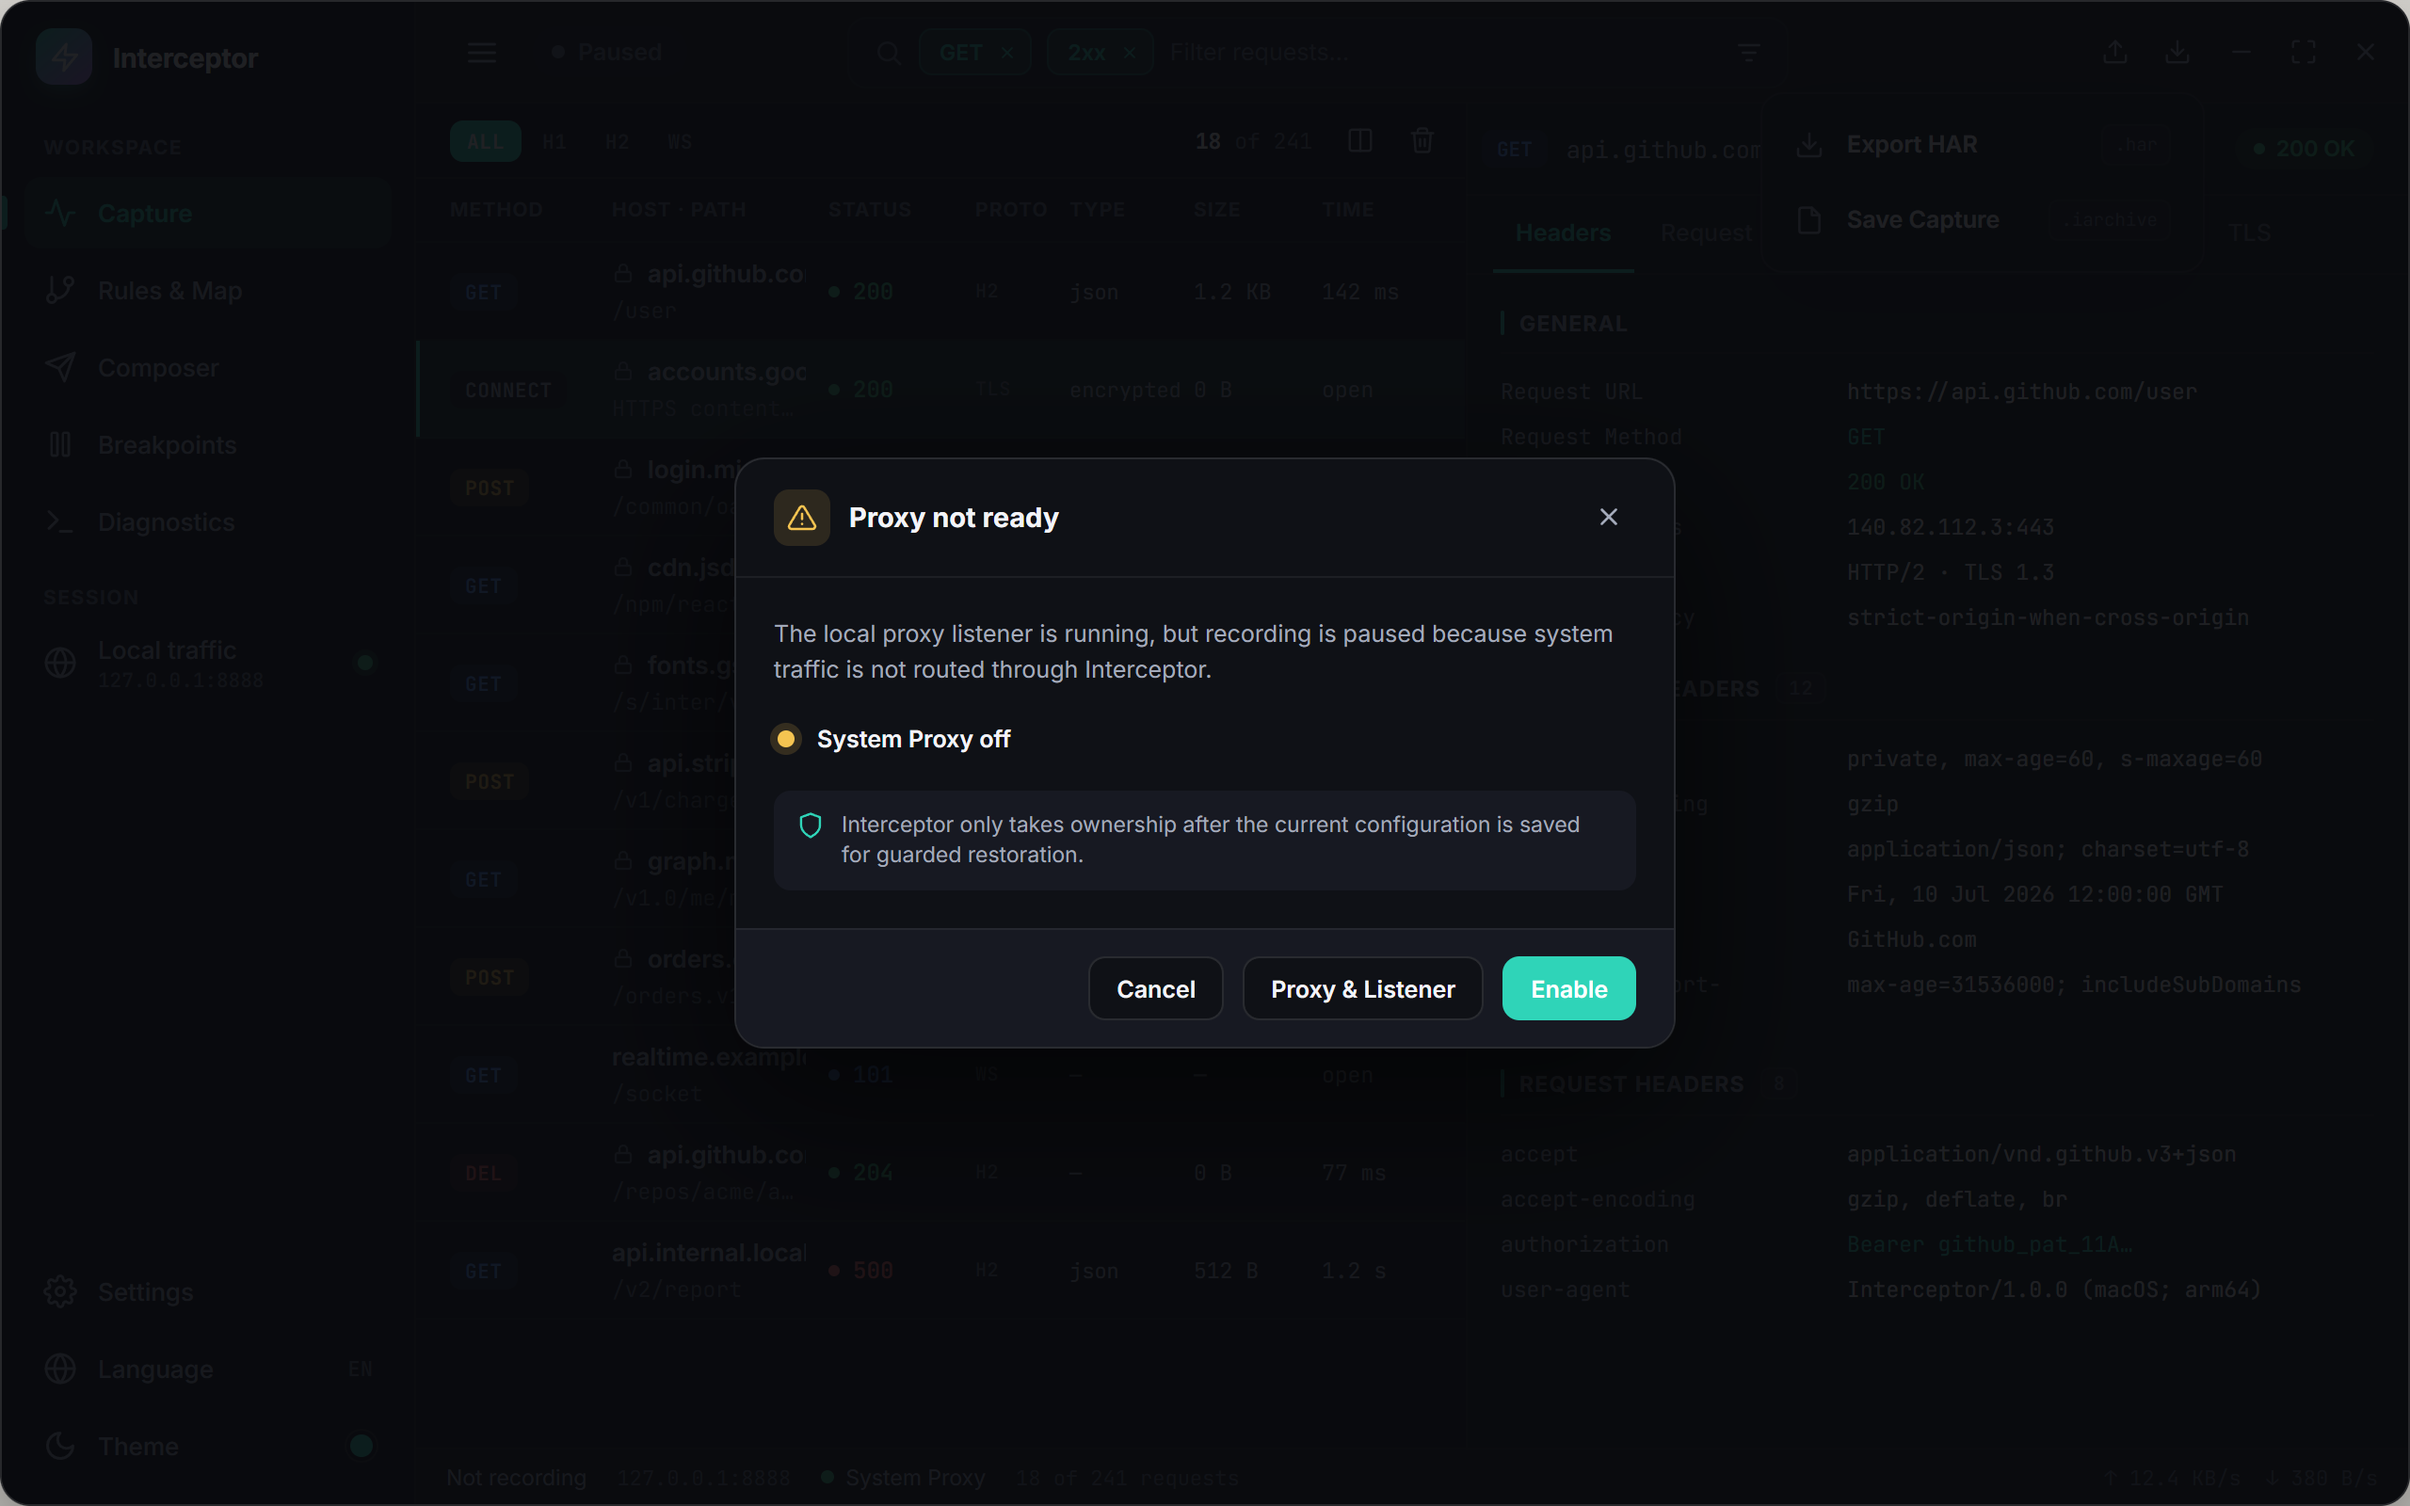
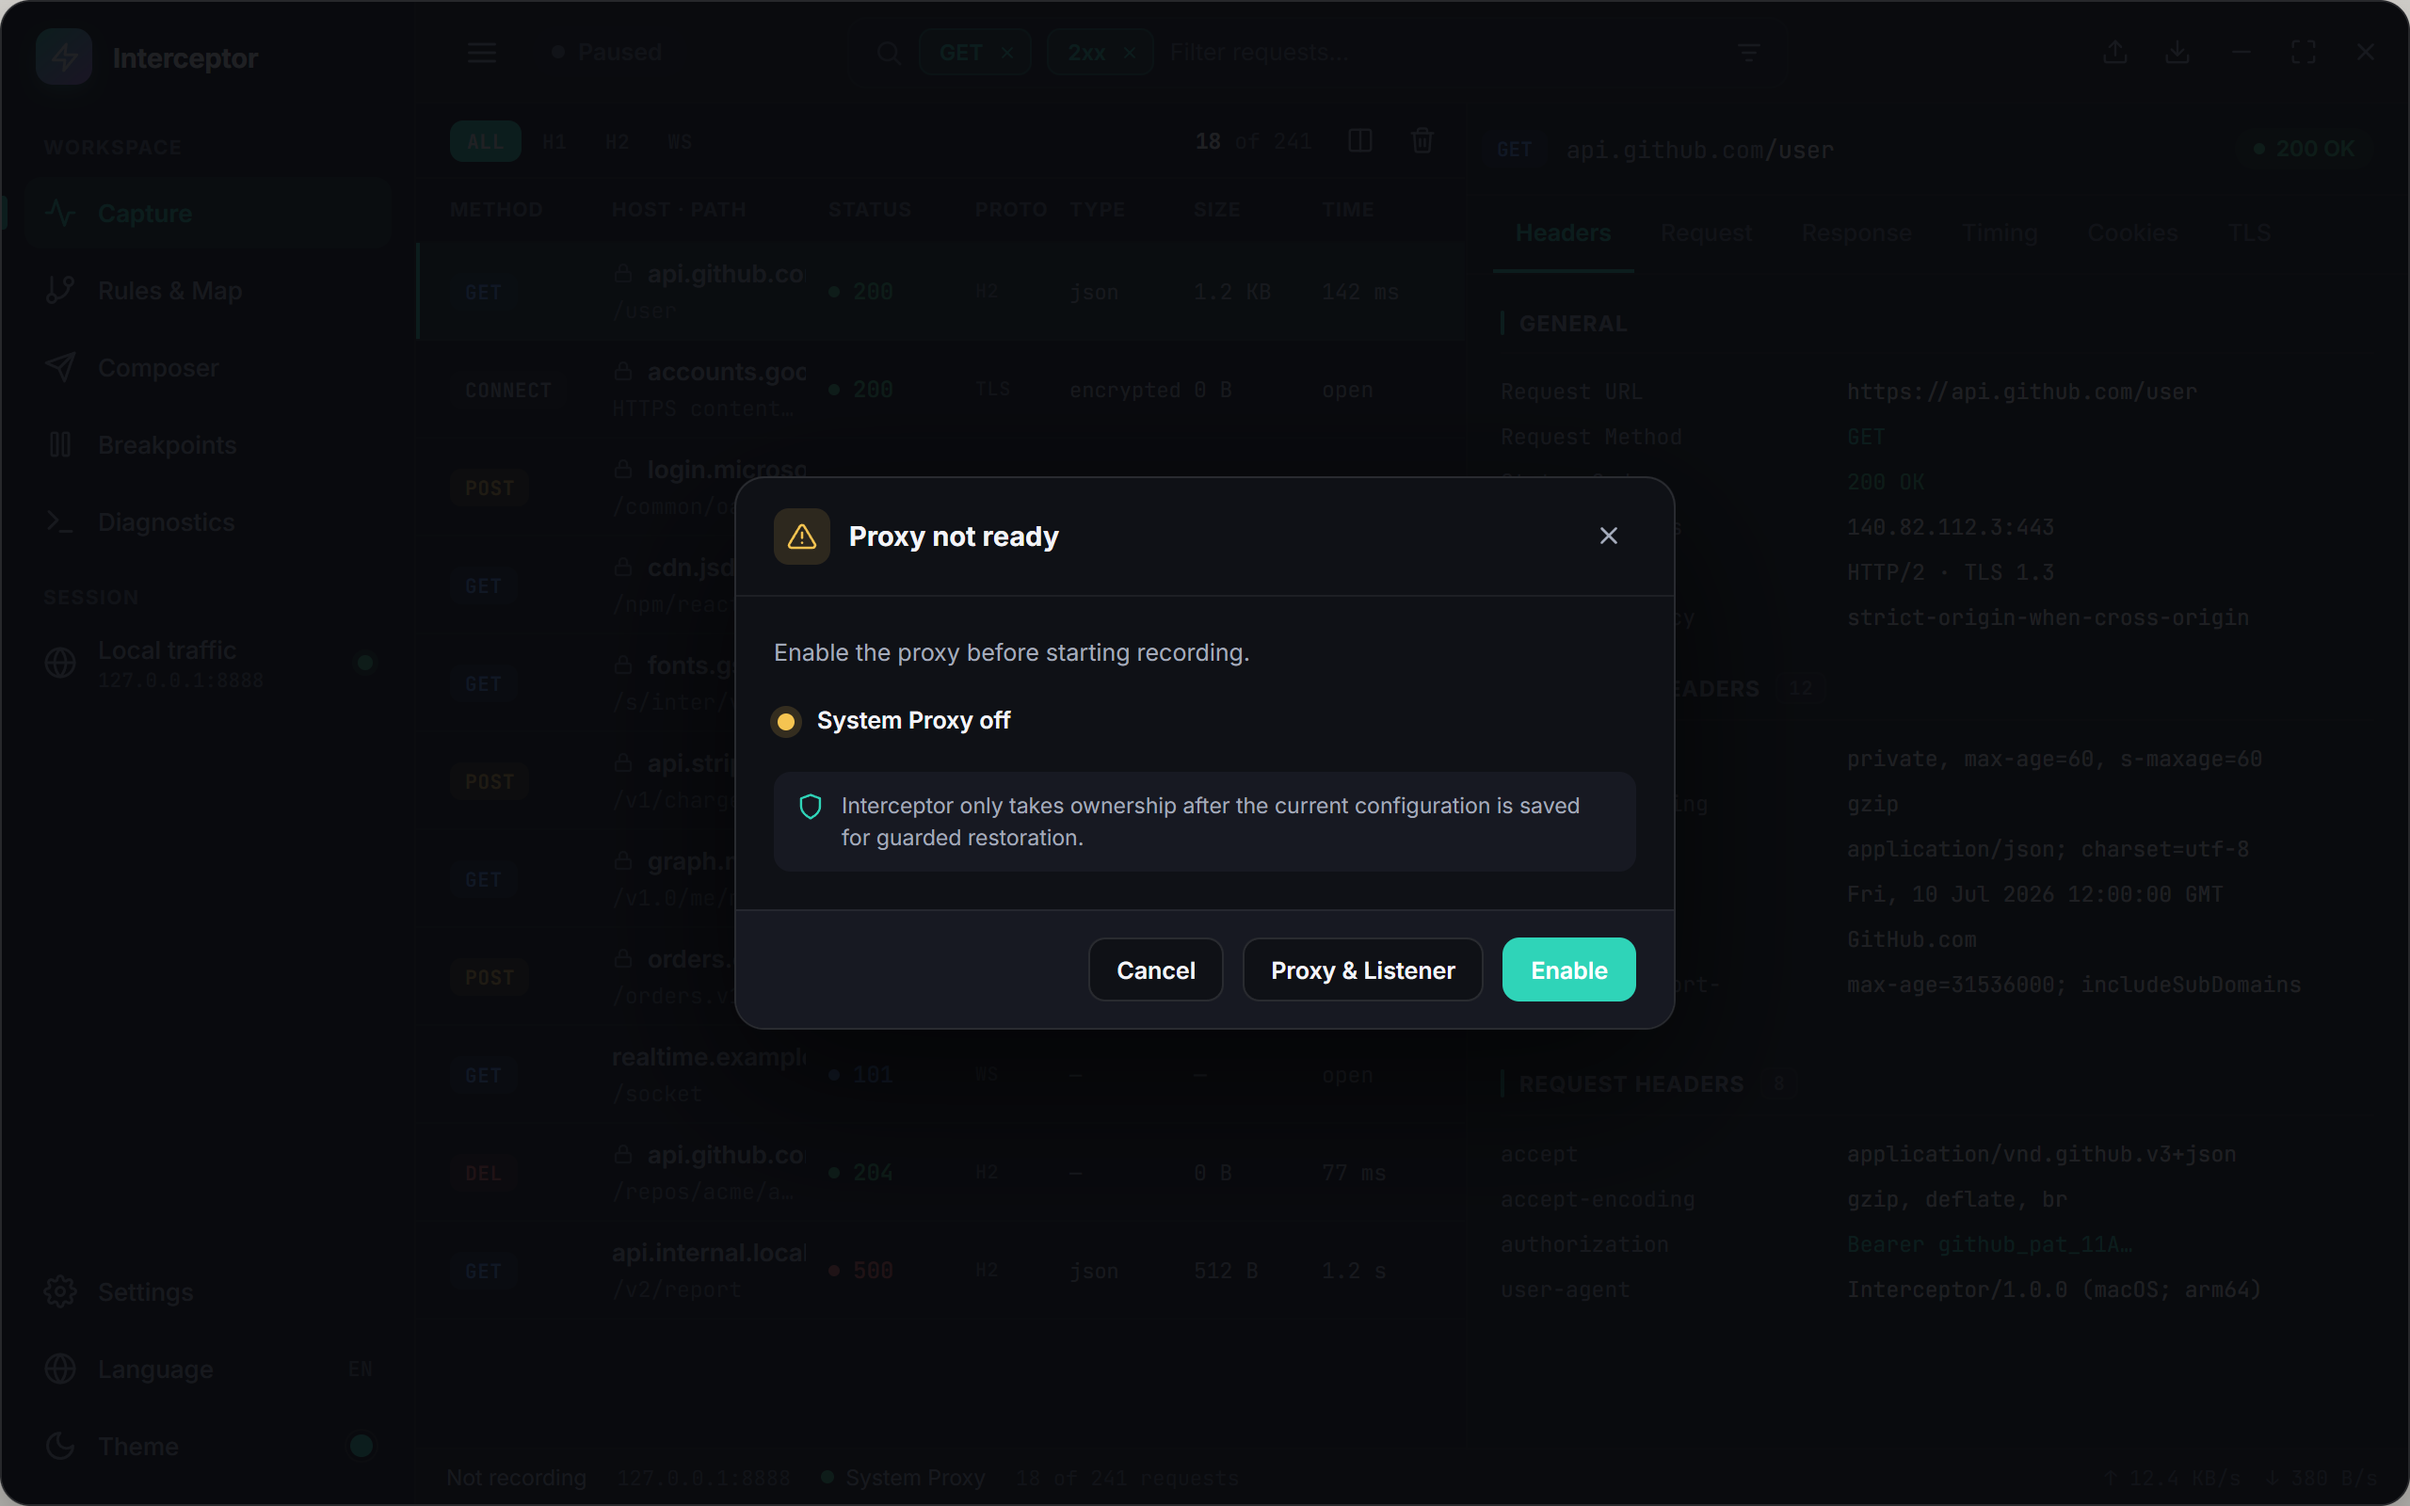
修正代理未就绪录制状态

diff --git a/apps/desktop/src/renderer/i18n/locales/ru.ts b/apps/desktop/src/renderer/i18n/locales/ru.ts
@@ -41,7 +41,7 @@ export const ruCatalog = {
   'capture.openCapture': 'Открыть захват',
   'capture.saveCapture': 'Сохранить захват',
   'capture.proxyNotReadyTitle': 'Прокси не готов',
-  'capture.proxyNotReadyDescription': 'Локальный прокси-listener работает, но запись приостановлена, поскольку системный трафик не направляется через Interceptor.',
+  'capture.proxyNotReadyDescription': 'Включите прокси перед началом записи.',
   'capture.proxyListenerNotReadyDescription': 'Локальный прокси-listener не готов. Повторите попытку, когда Proxy Core станет доступен.',
   'capture.proxyOwnershipNote': 'Interceptor получает контроль только после сохранения текущей конфигурации для защищённого восстановления.',
   'capture.notRecording': 'Запись не ведётся',

diff --git a/apps/desktop/src/renderer/i18n/locales/uk.ts b/apps/desktop/src/renderer/i18n/locales/uk.ts
@@ -41,7 +41,7 @@ export const ukCatalog = {
   'capture.openCapture': 'Відкрити захоплення',
   'capture.saveCapture': 'Зберегти захоплення',
   'capture.proxyNotReadyTitle': 'Проксі не готовий',
-  'capture.proxyNotReadyDescription': 'Локальний proxy listener працює, але запис призупинено, оскільки системний трафік не спрямовується через Interceptor.',
+  'capture.proxyNotReadyDescription': 'Увімкніть проксі перед початком запису.',
   'capture.proxyListenerNotReadyDescription': 'Локальний proxy listener не готовий. Повторіть спробу, коли Proxy Core стане доступним.',
   'capture.proxyOwnershipNote': 'Interceptor отримує контроль лише після збереження поточної конфігурації для захищеного відновлення.',
   'capture.notRecording': 'Запис вимкнено',

diff --git a/apps/desktop/src/renderer/i18n/locales/ja.ts b/apps/desktop/src/renderer/i18n/locales/ja.ts
@@ -41,7 +41,7 @@ export const jaCatalog = {
   'capture.openCapture': 'キャプチャを開く',
   'capture.saveCapture': 'キャプチャを保存',
   'capture.proxyNotReadyTitle': 'プロキシの準備ができていません',
-  'capture.proxyNotReadyDescription': 'ローカルプロキシリスナーは動作中ですが、システムトラフィックが Interceptor を経由していないため記録は一時停止しています。',
+  'capture.proxyNotReadyDescription': '記録を開始する前にプロキシを有効にしてください。',
   'capture.proxyListenerNotReadyDescription': 'ローカルプロキシリスナーの準備ができていません。Proxy Core が利用可能になってから再試行してください。',
   'capture.proxyOwnershipNote': 'Interceptor は、安全に復元できるよう現在の設定を保存してから制御を引き継ぎます。',
   'capture.notRecording': '記録していません',

diff --git a/apps/desktop/src/renderer/features/capture/tests/capture-store.test.ts b/apps/desktop/src/renderer/features/capture/tests/capture-store.test.ts
@@ -36,6 +36,7 @@ describe('captureStore clear timeline', () => {
       clearedBefore: 0,
       syncRevision: 0,
       loading: false,
+      capturing: false,
       error: null,
       transferAction: null,
       proxyReadinessIssue: null,
@@ -114,6 +115,7 @@ describe('captureStore clear timeline', () => {
   });
 
   it('tracks and dismisses one proxy readiness issue', () => {
+    useCaptureStore.getState().setCapturing(true);
     useCaptureStore.getState().setProxyReadinessIssue({
       kind: 'system-proxy',
       ownershipLost: true,
@@ -123,6 +125,7 @@ describe('captureStore clear timeline', () => {
       kind: 'system-proxy',
       ownershipLost: true,
     });
+    expect(useCaptureStore.getState().capturing).toBe(false);
 
     useCaptureStore.getState().setProxyReadinessIssue(null);
     expect(useCaptureStore.getState().proxyReadinessIssue).toBeNull();

diff --git a/apps/desktop/src/renderer/i18n/locales/ko.ts b/apps/desktop/src/renderer/i18n/locales/ko.ts
@@ -41,7 +41,7 @@ export const koCatalog = {
   'capture.openCapture': '캡처 열기',
   'capture.saveCapture': '캡처 저장',
   'capture.proxyNotReadyTitle': '프록시가 준비되지 않음',
-  'capture.proxyNotReadyDescription': '로컬 프록시 리스너는 실행 중이지만 시스템 트래픽이 Interceptor를 통과하지 않아 녹화가 일시 중지되었습니다.',
+  'capture.proxyNotReadyDescription': '녹화를 시작하기 전에 프록시를 활성화하세요.',
   'capture.proxyListenerNotReadyDescription': '로컬 프록시 리스너가 준비되지 않았습니다. Proxy Core가 사용 가능해지면 다시 시도하세요.',
   'capture.proxyOwnershipNote': 'Interceptor는 보호된 복원을 위해 현재 구성을 저장한 후에만 제어권을 가져옵니다.',
   'capture.notRecording': '캡처하지 않음',

diff --git a/apps/desktop/src/renderer/i18n/locales/de.ts b/apps/desktop/src/renderer/i18n/locales/de.ts
@@ -40,7 +40,7 @@ export const deCatalog = {
   'capture.openCapture': 'Aufzeichnung öffnen',
   'capture.saveCapture': 'Aufzeichnung speichern',
   'capture.proxyNotReadyTitle': 'Proxy nicht bereit',
-  'capture.proxyNotReadyDescription': 'Der lokale Proxy-Listener läuft, aber die Aufzeichnung ist pausiert, weil der Systemverkehr nicht durch Interceptor geleitet wird.',
+  'capture.proxyNotReadyDescription': 'Aktivieren Sie den Proxy, bevor Sie die Aufzeichnung starten.',
   'capture.proxyListenerNotReadyDescription': 'Der lokale Proxy-Listener ist nicht bereit. Versuchen Sie es erneut, sobald Proxy Core verfügbar ist.',
   'capture.proxyOwnershipNote': 'Interceptor übernimmt die Kontrolle erst, nachdem die aktuelle Konfiguration für eine geschützte Wiederherstellung gespeichert wurde.',
   'capture.notRecording': 'Keine Aufzeichnung',

diff --git a/design/app/index.html b/design/app/index.html
@@ -569,7 +569,7 @@
         <div class="dlg proxy-ready-dialog">
           <div class="dlghead"><span class="di warning"><svg><use href="#i-alert"/></svg></span><b>Proxy not ready</b><button class="ib sm" data-close-overlay><svg><use href="#i-x"/></svg></button></div>
           <div class="proxy-ready-body">
-            <p>The local proxy listener is running, but recording is paused because system traffic is not routed through Interceptor.</p>
+            <p>Enable the proxy before starting recording.</p>
             <div class="proxy-ready-status"><span class="proxy-ready-dot"></span><div><b>System Proxy off</b></div></div>
             <div class="privacy-note"><svg><use href="#i-shield"/></svg><span>Interceptor only takes ownership after the current configuration is saved for guarded restoration.</span></div>
           </div>

diff --git a/apps/desktop/src/renderer/i18n/locales/fr.ts b/apps/desktop/src/renderer/i18n/locales/fr.ts
@@ -41,7 +41,7 @@ export const frCatalog = {
   'capture.openCapture': 'Ouvrir la capture',
   'capture.saveCapture': 'Enregistrer la capture',
   'capture.proxyNotReadyTitle': 'Proxy non prêt',
-  'capture.proxyNotReadyDescription': 'Le listener proxy local fonctionne, mais l’enregistrement est en pause car le trafic système ne passe pas par Interceptor.',
+  'capture.proxyNotReadyDescription': 'Activez le proxy avant de démarrer l’enregistrement.',
   'capture.proxyListenerNotReadyDescription': 'Le listener proxy local n’est pas prêt. Réessayez lorsque Proxy Core est disponible.',
   'capture.proxyOwnershipNote': 'Interceptor ne prend le contrôle qu’après avoir enregistré la configuration actuelle pour une restauration protégée.',
   'capture.notRecording': 'Aucun enregistrement',

diff --git a/apps/desktop/src/renderer/i18n/locales/es.ts b/apps/desktop/src/renderer/i18n/locales/es.ts
@@ -41,7 +41,7 @@ export const esCatalog = {
   'capture.openCapture': 'Abrir captura',
   'capture.saveCapture': 'Guardar captura',
   'capture.proxyNotReadyTitle': 'El proxy no está listo',
-  'capture.proxyNotReadyDescription': 'El listener del proxy local está activo, pero la grabación está en pausa porque el tráfico del sistema no pasa por Interceptor.',
+  'capture.proxyNotReadyDescription': 'Activa el proxy antes de iniciar la grabación.',
   'capture.proxyListenerNotReadyDescription': 'El listener del proxy local no está listo. Reinténtalo cuando Proxy Core esté disponible.',
   'capture.proxyOwnershipNote': 'Interceptor solo toma el control después de guardar la configuración actual para una restauración protegida.',
   'capture.notRecording': 'No se está capturando',

diff --git a/apps/desktop/src/renderer/i18n/locales/pl.ts b/apps/desktop/src/renderer/i18n/locales/pl.ts
@@ -41,7 +41,7 @@ export const plCatalog = {
   'capture.openCapture': 'Otwórz przechwycenie',
   'capture.saveCapture': 'Zapisz przechwycenie',
   'capture.proxyNotReadyTitle': 'Proxy nie jest gotowy',
-  'capture.proxyNotReadyDescription': 'Lokalny listener proxy działa, ale nagrywanie jest wstrzymane, ponieważ ruch systemowy nie jest kierowany przez Interceptor.',
+  'capture.proxyNotReadyDescription': 'Włącz proxy przed rozpoczęciem nagrywania.',
   'capture.proxyListenerNotReadyDescription': 'Lokalny listener proxy nie jest gotowy. Spróbuj ponownie, gdy Proxy Core będzie dostępny.',
   'capture.proxyOwnershipNote': 'Interceptor przejmuje kontrolę dopiero po zapisaniu bieżącej konfiguracji do bezpiecznego przywrócenia.',
   'capture.notRecording': 'Nagrywanie wyłączone',

diff --git a/apps/desktop/src/renderer/i18n/locales/tr.ts b/apps/desktop/src/renderer/i18n/locales/tr.ts
@@ -41,7 +41,7 @@ export const trCatalog = {
   'capture.openCapture': 'Yakalamayı aç',
   'capture.saveCapture': 'Yakalamayı kaydet',
   'capture.proxyNotReadyTitle': 'Proxy hazır değil',
-  'capture.proxyNotReadyDescription': 'Yerel proxy dinleyicisi çalışıyor ancak sistem trafiği Interceptor üzerinden yönlendirilmediği için kayıt duraklatıldı.',
+  'capture.proxyNotReadyDescription': 'Kaydı başlatmadan önce proxy’yi etkinleştirin.',
   'capture.proxyListenerNotReadyDescription': 'Yerel proxy dinleyicisi hazır değil. Proxy Core kullanılabilir olduğunda yeniden deneyin.',
   'capture.proxyOwnershipNote': 'Interceptor, korumalı geri yükleme için mevcut yapılandırma kaydedildikten sonra kontrolü devralır.',
   'capture.notRecording': 'Kayıt yapılmıyor',

diff --git a/apps/desktop/src/renderer/i18n/locales/it.ts b/apps/desktop/src/renderer/i18n/locales/it.ts
@@ -41,7 +41,7 @@ export const itCatalog = {
   'capture.openCapture': 'Apri acquisizione',
   'capture.saveCapture': 'Salva acquisizione',
   'capture.proxyNotReadyTitle': 'Proxy non pronto',
-  'capture.proxyNotReadyDescription': 'Il listener proxy locale è attivo, ma la registrazione è in pausa perché il traffico di sistema non passa attraverso Interceptor.',
+  'capture.proxyNotReadyDescription': 'Abilita il proxy prima di avviare la registrazione.',
   'capture.proxyListenerNotReadyDescription': 'Il listener proxy locale non è pronto. Riprova quando Proxy Core è disponibile.',
   'capture.proxyOwnershipNote': 'Interceptor assume il controllo solo dopo aver salvato la configurazione corrente per un ripristino protetto.',
   'capture.notRecording': 'Registrazione non attiva',
